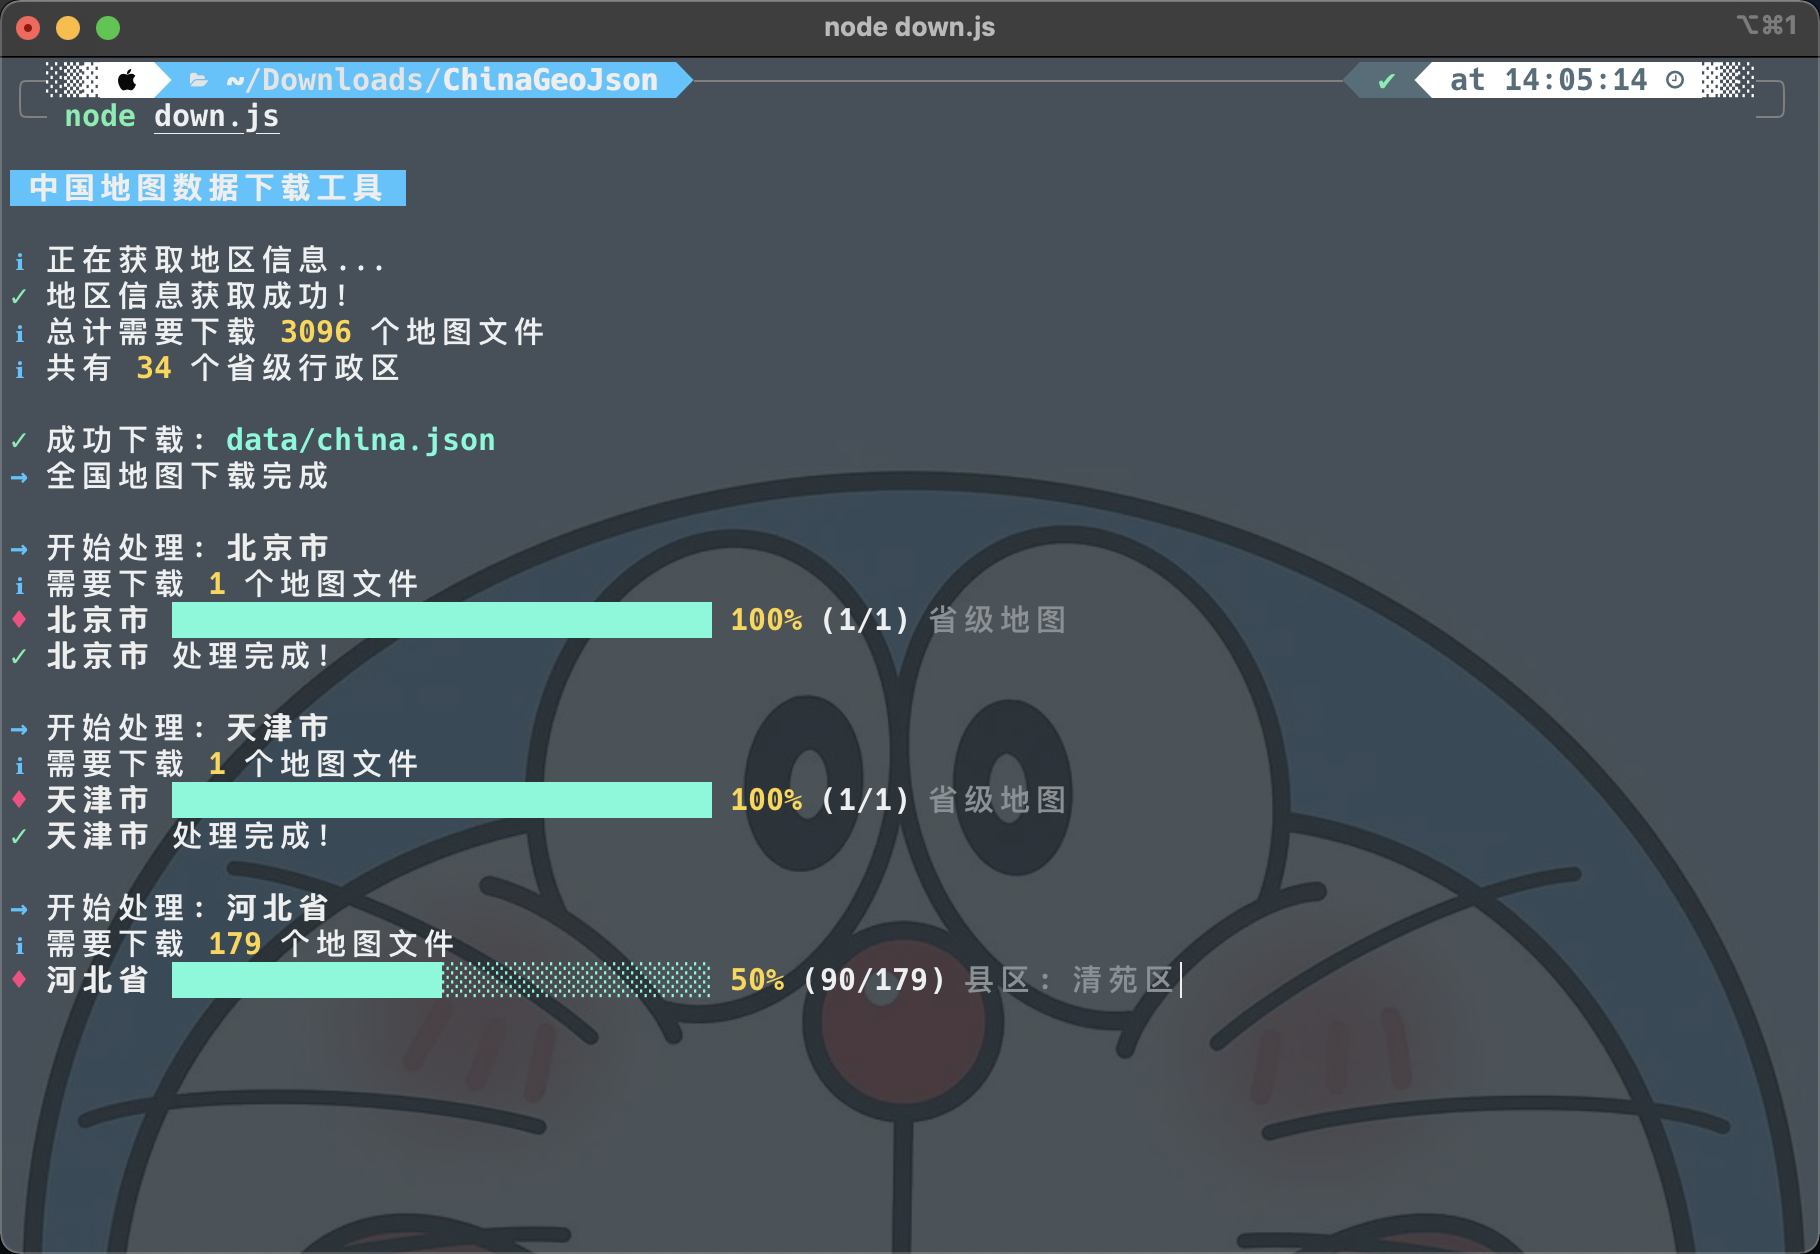
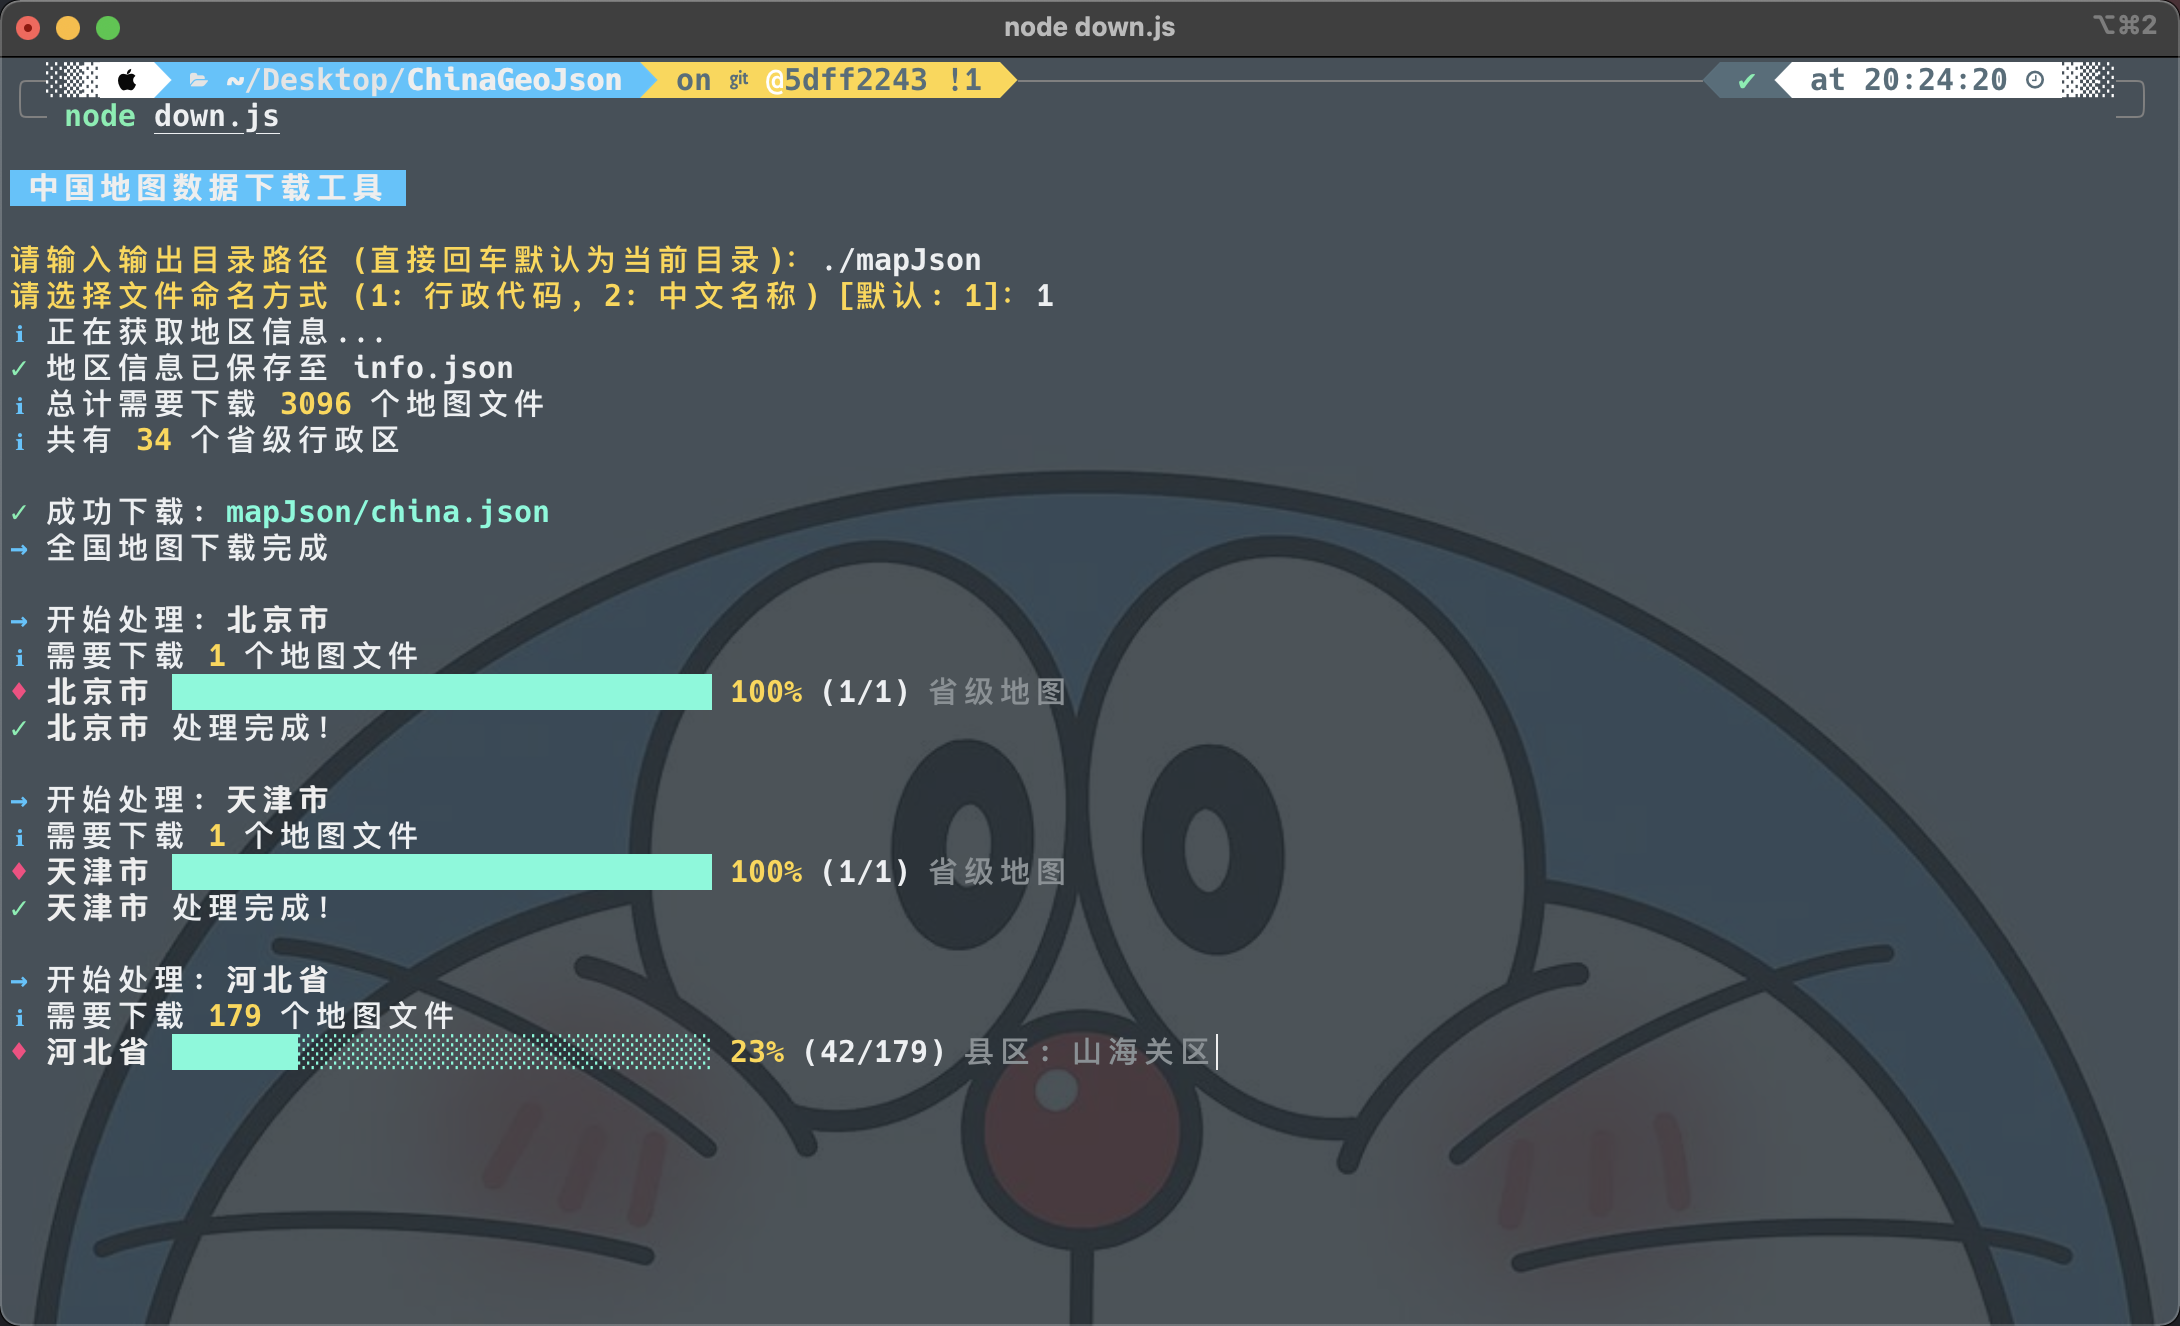
feat:添加命令行交互

Changed region(s): [[0.0, 0.0, 1.0, 1.0], [0.8615, 0.5909, 0.8923, 0.6531], [0.8308, 0.5598, 0.8615, 0.5909]]

diff --git a/down.js b/down.js
@@ -1,19 +1,28 @@
 const fs = require('fs');
 const path = require('path');
 const https = require('https');
+const readline = require('readline');
 
 // 基础配置
 // 这是地图的下载地址
 const baseUrl = 'https://geo.datav.aliyun.com/areas_v3/bound/';
 // 这是所有地区编码
 const infoUrl = 'https://geo.datav.aliyun.com/areas_v3/bound/infos.json';
-// 这是输出目录
-const outputDir = './';
+// // 这是输出目录
+// const outputDir = './';
 
-// 添加命名方式配置
-const config = {
-    nameFormat: 'adcode', // 可选值: 'adcode', 'chinese'
-};
+// // 添加命名方式配置
+// const config = {
+//     nameFormat: 'adcode', // 可选值: 'adcode', 'chinese'
+// };
+
+// 命令行交互
+const rl = readline.createInterface({
+    input: process.stdin,
+    output: process.stdout
+});
+
+const question = (query) => new Promise((resolve) => rl.question(query, resolve));
 
 // ANSI 颜色代码 终端进度条用
 const colors = {
@@ -91,13 +100,13 @@ const httpsGet = (url) => {
 };
 
 // 修改 getFileName 函数，添加对全国地图的特殊处理
-const getFileName = (code, info, type = '') => {
+const getFileName = (code, info, type = '', nameFormat) => {
     // 如果是全国地图（代码为100000），则返回 china.json
     if (code === '100000') {
         return 'china.json';
     }
     
-    switch (config.nameFormat) {
+    switch (nameFormat) {
         case 'chinese':
             return `${info.name}${type}.json`;
         case 'adcode':
@@ -122,145 +131,148 @@ const downloadJson = async (url, outputPath, info, progressBar = null, currentIt
     }
 };
 
-// 获取地区信息
-const getAreaInfos = async () => {
-    try {
-        console.log(`${colors.blue}ℹ${colors.reset} 正在获取地区信息...`);
-        const data = await httpsGet(infoUrl);
-        
-        // 保存压缩版的 info.json
-        fs.writeFileSync(path.join(outputDir, 'info.json'), JSON.stringify(data));
-        console.log(`${colors.green}✓${colors.reset} 地区信息已保存至 info.json`);
-        
-        return data;
-    } catch (error) {
-        console.error(`${colors.red}✗${colors.reset} 获取地区信息失败:`, error.message);
-        return null;
-    }
-};
-
 // 主函数
 const main = async () => {
-    console.log('\n' + colors.bright + colors.bgBlue + ' 中国地图数据下载工具 ' + colors.reset + '\n');
+    try {
+        console.log('\n' + colors.bright + colors.bgBlue + ' 中国地图数据下载工具 ' + colors.reset + '\n');
 
-    // 创建输出目录
-    createDir(path.join(outputDir, 'province'));
-    createDir(path.join(outputDir, 'citys'));
-    createDir(path.join(outputDir, 'county'));
+        // 获取用户输入的输出目录
+        const outputDir = await question(`${colors.yellow}请输入输出目录路径 (直接回车默认为当前目录)：${colors.reset}`);
+        const finalOutputDir = outputDir || './';
 
-    // 获取地区信息
-    const areaInfos = await getAreaInfos();
-    if (!areaInfos) return;
+        // 获取用户选择的命名方式
+        const nameFormatAnswer = await question(`${colors.yellow}请选择文件命名方式 (1: 行政代码, 2: 中文名称) [默认: 1]：${colors.reset}`);
+        const nameFormat = nameFormatAnswer === '2' ? 'chinese' : 'adcode';
 
-    // 计算总任务数
-    let totalFiles = 1; // 全国地图
-    let provinceCount = 0;
-    for (const [adcode, info] of Object.entries(areaInfos)) {
-        if (adcode.endsWith('0000') && adcode !== '100000') {
-            provinceCount++;
-            const provinceCode = adcode;
-            const cities = Object.entries(areaInfos).filter(([code]) => 
-                code.startsWith(provinceCode.slice(0, 2)) && 
-                code.endsWith('00') && 
-                code !== provinceCode
-            );
-            totalFiles++; // 省级地图
-            totalFiles += cities.length; // 市级地图
+        // 创建输出目录
+        createDir(finalOutputDir);
+        createDir(path.join(finalOutputDir, 'province'));
+        createDir(path.join(finalOutputDir, 'citys'));
+        createDir(path.join(finalOutputDir, 'county'));
 
-            for (const [cityCode] of cities) {
-                const counties = Object.entries(areaInfos).filter(([code]) => 
-                    code.startsWith(cityCode.slice(0, 4)) && 
-                    !code.endsWith('00')
+        // 获取地区信息
+        console.log(`${colors.blue}ℹ${colors.reset} 正在获取地区信息...`);
+        const areaInfos = await httpsGet(infoUrl);
+        if (!areaInfos) return;
+
+        // 保存压缩版的 info.json
+        fs.writeFileSync(path.join(finalOutputDir, 'info.json'), JSON.stringify(areaInfos));
+        console.log(`${colors.green}✓${colors.reset} 地区信息已保存至 info.json`);
+
+        // 计算总任务数
+        let totalFiles = 1; // 全国地图
+        let provinceCount = 0;
+        for (const [adcode, info] of Object.entries(areaInfos)) {
+            if (adcode.endsWith('0000') && adcode !== '100000') {
+                provinceCount++;
+                const provinceCode = adcode;
+                const cities = Object.entries(areaInfos).filter(([code]) => 
+                    code.startsWith(provinceCode.slice(0, 2)) && 
+                    code.endsWith('00') && 
+                    code !== provinceCode
                 );
-                totalFiles += counties.length; // 县级地图
-            }
-        }
-    }
+                totalFiles++; // 省级地图
+                totalFiles += cities.length; // 市级地图
 
-    console.log(`${colors.blue}ℹ${colors.reset} 总计需要下载 ${colors.yellow}${totalFiles}${colors.reset} 个地图文件`);
-    console.log(`${colors.blue}ℹ${colors.reset} 共有 ${colors.yellow}${provinceCount}${colors.reset} 个省级行政区\n`);
-
-    // 下载全国地图
-    const chinaInfo = areaInfos['100000'];
-    await downloadJson(
-        `${baseUrl}100000.json`,
-        path.join(outputDir, getFileName('100000', chinaInfo)),
-        chinaInfo
-    );
-    console.log(`${colors.blue}→${colors.reset} 全国地图下载完成\n`);
-
-    // 处理省级数据
-    for (const [adcode, info] of Object.entries(areaInfos)) {
-        if (adcode.endsWith('0000') && adcode !== '100000') {
-            const provinceCode = adcode;
-            
-            // 计算该省的总任务数
-            const cities = Object.entries(areaInfos).filter(([code]) => 
-                code.startsWith(provinceCode.slice(0, 2)) && 
-                code.endsWith('00') && 
-                code !== provinceCode
-            );
-
-            let provinceTotalTasks = 1;
-            provinceTotalTasks += cities.length;
-
-            for (const [cityCode] of cities) {
-                const counties = Object.entries(areaInfos).filter(([code]) => 
-                    code.startsWith(cityCode.slice(0, 4)) && 
-                    !code.endsWith('00')
-                );
-                provinceTotalTasks += counties.length;
-            }
-
-            console.log(`${colors.blue}→${colors.reset} 开始处理: ${colors.bright}${info.name}${colors.reset}`);
-            console.log(`${colors.blue}ℹ${colors.reset} 需要下载 ${colors.yellow}${provinceTotalTasks}${colors.reset} 个地图文件`);
-
-            // 创建省份进度条
-            const progressBar = new ProgressBar(info.name, provinceTotalTasks);
-
-            // 下载省级地图
-            await downloadJson(
-                `${baseUrl}${provinceCode}.json`,
-                path.join(outputDir, 'province', getFileName(provinceCode, info)),
-                info,
-                progressBar,
-                '省级地图'
-            );
-
-            // 下载市级地图
-            for (const [cityCode, cityInfo] of cities) {
-                await downloadJson(
-                    `${baseUrl}${cityCode}.json`,
-                    path.join(outputDir, 'citys', getFileName(cityCode, cityInfo)),
-                    cityInfo,
-                    progressBar,
-                    `市级: ${cityInfo.name}`
-                );
-
-                // 获取该市的所有县/区
-                const counties = Object.entries(areaInfos).filter(([code, countyInfo]) => 
-                    code.startsWith(cityCode.slice(0, 4)) && 
-                    !code.endsWith('00')
-                );
-
-                // 下载县级地图
-                for (const [countyCode, countyInfo] of counties) {
-                    await downloadJson(
-                        `${baseUrl}${countyCode}.json`,
-                        path.join(outputDir, 'county', getFileName(countyCode, countyInfo)),
-                        countyInfo,
-                        progressBar,
-                        `县区: ${countyInfo.name}`
+                for (const [cityCode] of cities) {
+                    const counties = Object.entries(areaInfos).filter(([code]) => 
+                        code.startsWith(cityCode.slice(0, 4)) && 
+                        !code.endsWith('00')
                     );
+                    totalFiles += counties.length; // 县级地图
                 }
             }
-
-            progressBar.complete();
-            console.log(`${colors.green}✓${colors.reset} ${colors.bright}${info.name}${colors.reset} 处理完成！\n`);
         }
-    }
 
-    console.log(`${colors.green}✨${colors.reset} ${colors.bright}所有地图数据下载完成！${colors.reset}\n`);
+        console.log(`${colors.blue}ℹ${colors.reset} 总计需要下载 ${colors.yellow}${totalFiles}${colors.reset} 个地图文件`);
+        console.log(`${colors.blue}ℹ${colors.reset} 共有 ${colors.yellow}${provinceCount}${colors.reset} 个省级行政区\n`);
+
+        // 下载全国地图
+        const chinaInfo = areaInfos['100000'];
+        await downloadJson(
+            `${baseUrl}100000.json`,
+            path.join(finalOutputDir, getFileName('100000', chinaInfo, '', nameFormat)),
+            chinaInfo
+        );
+        console.log(`${colors.blue}→${colors.reset} 全国地图下载完成\n`);
+
+        // 处理省级数据
+        for (const [adcode, info] of Object.entries(areaInfos)) {
+            if (adcode.endsWith('0000') && adcode !== '100000') {
+                const provinceCode = adcode;
+                
+                // 计算该省的总任务数
+                const cities = Object.entries(areaInfos).filter(([code]) => 
+                    code.startsWith(provinceCode.slice(0, 2)) && 
+                    code.endsWith('00') && 
+                    code !== provinceCode
+                );
+
+                let provinceTotalTasks = 1;
+                provinceTotalTasks += cities.length;
+
+                for (const [cityCode] of cities) {
+                    const counties = Object.entries(areaInfos).filter(([code]) => 
+                        code.startsWith(cityCode.slice(0, 4)) && 
+                        !code.endsWith('00')
+                    );
+                    provinceTotalTasks += counties.length;
+                }
+
+                console.log(`${colors.blue}→${colors.reset} 开始处理: ${colors.bright}${info.name}${colors.reset}`);
+                console.log(`${colors.blue}ℹ${colors.reset} 需要下载 ${colors.yellow}${provinceTotalTasks}${colors.reset} 个地图文件`);
+
+                // 创建省份进度条
+                const progressBar = new ProgressBar(info.name, provinceTotalTasks);
+
+                // 下载省级地图
+                await downloadJson(
+                    `${baseUrl}${provinceCode}.json`,
+                    path.join(finalOutputDir, 'province', getFileName(provinceCode, info, '', nameFormat)),
+                    info,
+                    progressBar,
+                    '省级地图'
+                );
+
+                // 下载市级地图
+                for (const [cityCode, cityInfo] of cities) {
+                    await downloadJson(
+                        `${baseUrl}${cityCode}.json`,
+                        path.join(finalOutputDir, 'citys', getFileName(cityCode, cityInfo, '', nameFormat)),
+                        cityInfo,
+                        progressBar,
+                        `市级: ${cityInfo.name}`
+                    );
+
+                    // 获取该市的所有县/区
+                    const counties = Object.entries(areaInfos).filter(([code]) => 
+                        code.startsWith(cityCode.slice(0, 4)) && 
+                        !code.endsWith('00')
+                    );
+
+                    // 下载县级地图
+                    for (const [countyCode, countyInfo] of counties) {
+                        await downloadJson(
+                            `${baseUrl}${countyCode}.json`,
+                            path.join(finalOutputDir, 'county', getFileName(countyCode, countyInfo, '', nameFormat)),
+                            countyInfo,
+                            progressBar,
+                            `县区: ${countyInfo.name}`
+                        );
+                    }
+                }
+
+                progressBar.complete();
+                console.log(`${colors.green}✓${colors.reset} ${colors.bright}${info.name}${colors.reset} 处理完成！\n`);
+            }
+        }
+
+        console.log(`${colors.green}✨${colors.reset} ${colors.bright}所有地图数据下载完成！${colors.reset}\n`);
+    } catch (error) {
+        console.error(`${colors.red}错误:${colors.reset}`, error.message);
+    } finally {
+        rl.close();
+    }
 };
 
 // 添加错误处理

diff --git a/README.md b/README.md
@@ -25,6 +25,6 @@ node down.js
 
 ### 备注
 - 下载脚本会自动下载V3版本最新数据，如果需要下载V2版本数据，请修改down.js中的`baseUrl`和`infoUrl`
-- 默认下载目录为当前目录，如果需要下载到其他目录，请修改down.js中的`outputDir`, 例如：`const outputDir = './data';`
-- 默认下载的json文件昵称是以adcode命名，也就是各地区的行政区划代码，如果需要下载以省市名称命名的json文件，请修改down.js中的`nameFormat`为`chinese`
+- 默认下载目录为当前目录，如果需要下载到其他目录，请修改down.js中的`outputDir`, 例如：`const outputDir = './data';`(已改为命令行交互的方式选择目录)
+- 默认下载的json文件昵称是以adcode命名，也就是各地区的行政区划代码，如果需要下载以省市名称命名的json文件，请修改down.js中的`nameFormat`为`chinese`(已改为命令行交互的方式选择命名方式)
 ![image](./download.png)
